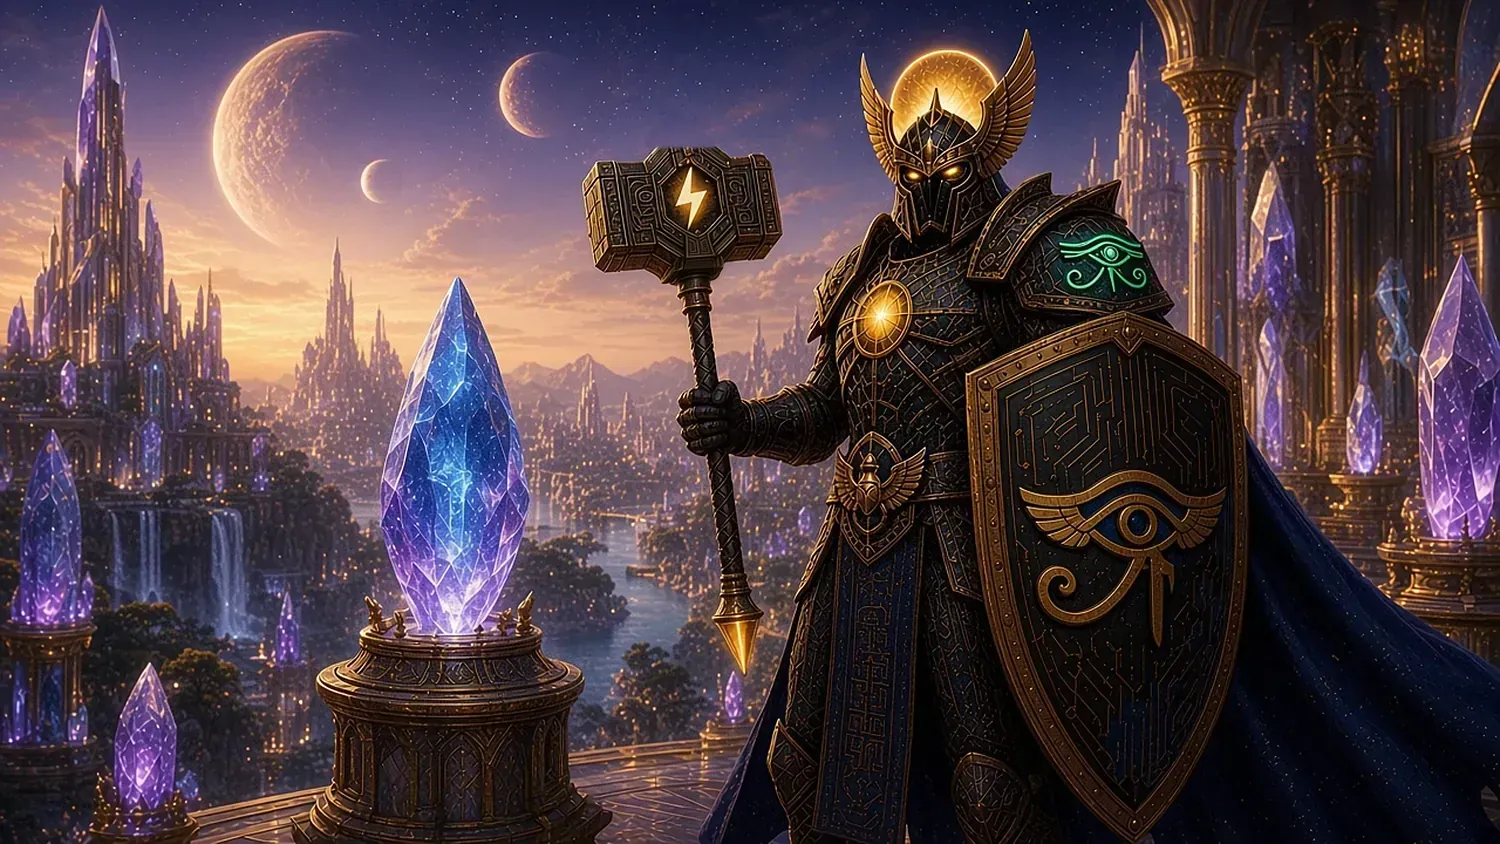
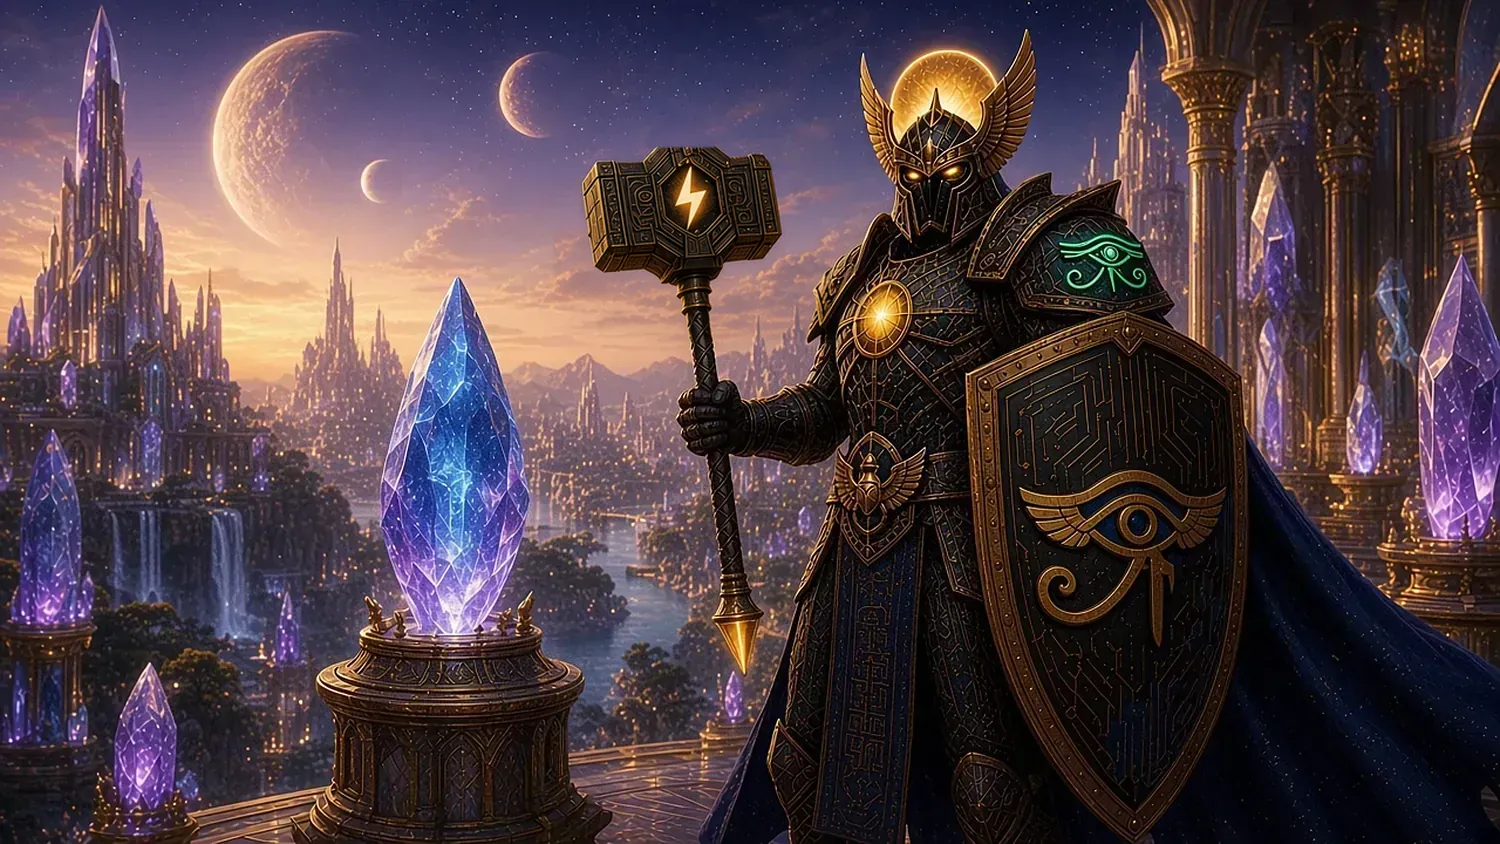
ART-UPLIFT-3: rebuild the sovereign-shard hammer head to the canon reference (complete head, collar band); add docs/ART-CANON.md and the canon reference image

Changed region(s): [[0.368, 0.154, 0.5213, 0.4005], [0.5213, 0.3389, 0.552, 0.4005]]

diff --git a/docs/ART-CANON.md b/docs/ART-CANON.md
@@ -1,0 +1,43 @@
+# Ra-Thor art canon (website)
+
+This file records the permanent visual canon for Ra-Thor in rathor.ai site art (page heroes, card thumbnails and any future site pictures). It is website canon. The comic canon lives in the Ra-Thor-Comic repo and is separate.
+
+Reference image: [`assets/canon/rathor-hammer-reference.webp`](../assets/canon/rathor-hammer-reference.webp) (1280×720). It shows Ra-Thor raising the hammer in a lightning storm with his Eye of Horus shield. It is not used on any page and is not in the offline cache.
+
+## Hammer
+
+- **Head:** one complete, symmetric rectangular block head, with both ends intact and squared (chamfered corners are fine). The head must never be truncated, cut off or shaved flat.
+- **Centre:** a gold lightning bolt (like the ⚡ emoji) in the centre panel of the head. There is no eye on the hammer, and no gems or text.
+- **Top:** nothing on top of the head. That means no spike, triangle, cone or knob.
+- **Neck:** a plain gold collar band where the haft enters the head. There is no gold triangle or cone at the head.
+- **Haft:** long, slim, dark and banded.
+- **Pommel:** a glowing gold cone at the bottom end of the haft only.
+- **Scale:** heroic, with the head about as wide as his shoulders or hips.
+
+## Shield
+
+- **Colours:** black and yellowish gold, matching his armour, and never blue. It has a gold rim, gold circuit lines and a gold winged Eye of Horus.
+- **No emerald on the shield.** Emerald is reserved for his winged Eye of Horus shoulder seal.
+
+## Other locks (unchanged)
+
+- The shoulder seal is a winged Eye of Horus in emerald green.
+- No real-person likeness.
+- Robots and drones protect, never harm.
+- No text in images.
+- The look is luxurious and polished.
+
+## Rulings (Sherif Botros, times ET)
+
+| Date and time | Words (verbatim) | Effect |
+|---|---|---|
+| 2026-11-25 12:43 PM | (ruling, as relayed) The hammer haft ends in a pointy triangle top; Ra-Thor's shield is black and yellowish gold, matching his armor, not blue. | Shield is black and yellowish gold (still in force). The triangle part was later reversed (below). |
+| 2026-11-25 1:06 PM | "Use the before version it was correct on hammer, just needed blue shield to not be blue." | Hammers kept as they were before the triangle redraws, and the shield recolour kept. |
+| 2026-11-25 1:22 PM | "Rows 1, 2 and 7 have incorrect gold cones ontop of the hammer." | No cone on top of the head (Launch, briefing, pilot). |
+| 2026-11-25 1:32 PM | "Good work, but the bottom row has no hammer handle and the hammer seems out of place." | The hammer is always complete, with its haft (pilot). |
+| 2026-11-25 1:43 PM | "The hammer on the table is so perfect, the new one in hand has an accidental golden cone ontop." | The pilot table hammer is a good example, and there is no cone on top (sovereign-shard). |
+| 2026-11-25 2:15 PM | "This got over trimmed and we lost a portion of the hammer metal. Also the symbol on the center area was cool, but doesn't matter so use tokens efficiently while revising the hammer shape to be perfect and follow cannon throughout all images." | The head must stay complete, never trimmed. |
+| 2026-11-25 2:17 PM | "This hammer example is mostly correct" (with the reference image) | The reference image above is the canon hammer. |
+| 2026-11-25 2:18 PM | "Make sure to keep everything Cannon for future use as we make decisions permanent." | This file is the permanent record. |
+
+The 12:36 PM ET widget answer ("Yes, keep the triangle on top of the hammer handle") was superseded by the 1:06 PM review and the later rulings above, so a triangle or cone on top of the hammer is not canon.
